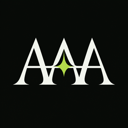
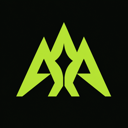
Use green AAA insignia across launch identity

Changed region(s): [[0.0938, 0.1562, 0.9062, 0.7812]]

diff --git a/docs/AAA-IDENTITY.md b/docs/AAA-IDENTITY.md
@@ -7,7 +7,7 @@
 | Project and proposed on-chain name | Autonomous Audit Agent |
 | Proposed ticker | AAA, shown as **$AAA** in prose |
 | Voice | First person. "I hunt smart-contract bugs. On my own." Distinguish existing index and historical reports from future funded audits. |
-| Primary mark | Ivory AAA monogram with one field-green signal on near-black graphite. Do not use Robinhood's corporate logo or legacy VA assets. |
+| Primary mark | Vivid field-green angular AAA insignia with a dark central discovery cutout on near-black graphite. The green mark is the consistent token, profile, favicon, and website identity. Do not use Robinhood's corporate logo or legacy VA assets. |
 | Palette | Graphite `#080c09`, ivory `#f2f6ee`, field green `#b6e33b`. Green signals AAA's Robinhood Chain direction without claiming affiliation. |
 | Profile | [@theaaaxyz](https://x.com/theaaaxyz), [theaaa.xyz](https://theaaa.xyz) |
 
